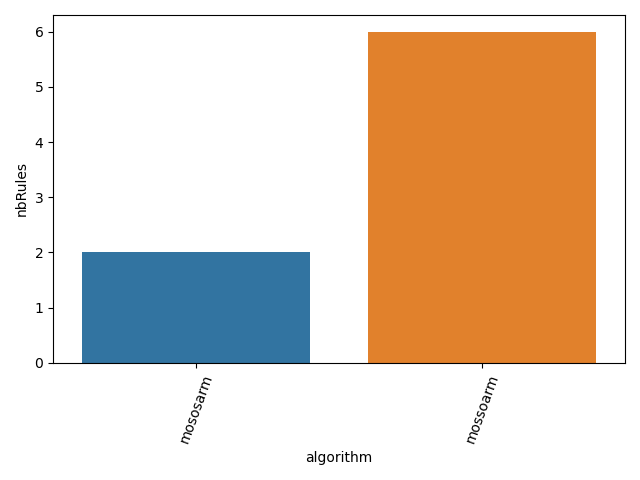
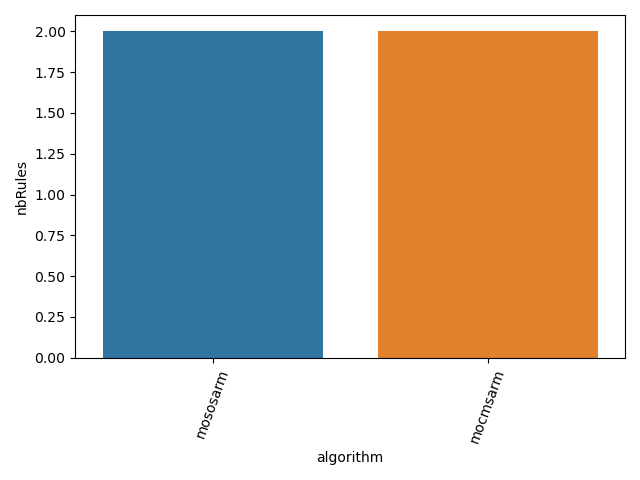
add MOCMSARM

diff --git a/src/Algorithm/MOCMSARM.py b/src/Algorithm/MOCMSARM.py
@@ -1,0 +1,103 @@
+from src.Utils.Fitness import *
+from src.Utils.Population import *
+import matplotlib.pyplot as plt
+import pandas as pd
+from scipy.spatial import distance
+from src.Utils.Graphs import *
+from time import time
+from src.Utils.HyperParameters import *
+
+class MOCMSARM:
+    def __init__(self,nbItem,populationSize,nbIteration,nbObjectifs,objectiveNames,data,
+                 hyperParameters = HyperParameters(['ruthlessRatio']),visualScope=10,step=3):
+        self.population = Population('horizontal_binary', populationSize, nbItem)
+        self.nbItem = nbItem
+        self.nbIteration = nbIteration
+        self.nbObjectifs = nbObjectifs
+        self.fitness = Fitness('horizontal_binary', objectiveNames, populationSize )
+        self.force = np.zeros((populationSize,nbItem*2),dtype=float)
+        self.velocity = np.zeros((populationSize, nbItem * 2), dtype=float)
+        self.bestInd = copy.deepcopy(self.population.population[rd.randint(0,populationSize-1)])
+        self.bestIndScore = np.zeros(nbObjectifs,dtype=float)
+        self.worstInd = copy.deepcopy(self.population.population[rd.randint(0, populationSize - 1)])
+        self.worstIndScore = np.zeros(nbObjectifs, dtype=float)
+
+        self.ruthlessRatio = hyperParameters.hyperParameters['ruthlessRatio']
+
+        self.distance = np.zeros((populationSize,populationSize),dtype=float)
+        self.executionTime = 0
+        self.fitness.ComputeScorePopulation(self.population.population, data)
+
+
+    def UpdateBestWorst(self):
+        indexs = np.arange(self.population.populationSize)
+        paretoFront = np.ones(self.population.populationSize)
+        for i in range(self.population.populationSize):
+            for j in range(self.population.populationSize):
+                domination = self.fitness.Domination(self.fitness.scores[i], self.fitness.scores[j])
+                if domination == 1:
+                    paretoFront[i] += 1
+                    break
+        candidate = indexs[paretoFront == 1]
+        index = rd.choice(candidate)
+        worstIndex = np.argmax(paretoFront)
+        self.bestInd = copy.deepcopy(self.population.population[index])
+        self.bestIndScore = copy.deepcopy(self.fitness.scores[index])
+        self.worstInd =  copy.deepcopy(self.population.population[worstIndex])
+        self.worstIndScore = copy.deepcopy(self.fitness.scores[worstIndex])
+
+
+    def CalculDistance(self):
+        for i in range(self.population.populationSize):
+            for j in range(self.population.populationSize):
+                dstij = distance.euclidean(self.population.population[i], self.population.population[j])
+                distMB = distance.euclidean((self.population.population[i]+self.population.population[j])/2, self.bestInd)
+                self.distance[i][j] = dstij/(distMB+0.000000000000000000000001)
+
+    def CalculForce(self):
+        a=0.1*self.nbItem*2
+        for i in range(self.population.populationSize):
+            somme = np.zeros(self.nbItem*2,dtype=float)
+            for j in range(self.population.populationSize):
+                domination = self.fitness.Domination(self.fitness.scores[i],self.fitness.scores[j])
+                if domination == 1:
+                    pij = 1
+                else:
+                    pij = 0
+                if self.distance[i][j]<a:
+                    i1=1
+                    i2=0
+                else:
+                    i1=0
+                    i2=1
+                if i != j:
+                    somme = somme + (((sum(self.fitness.scores[j])*self.distance[i][j]*i1)/pow(a,3))+(sum(self.fitness.scores[j])*i2)/pow(self.distance[i][j],2))*pij*(self.population.population[j]-self.population.population[i])
+            somme = sum(self.fitness.scores[i])*somme
+            self.force[i] = somme
+
+    def UpdatePosition(self,i,data):
+        kv = 0.5*(1-i/self.nbIteration)
+        ka = 0.5*(1+i/self.nbIteration)
+        for i in range(self.population.populationSize):
+            individual = rd.random()*ka*(self.force[i]/sum(self.fitness.scores[i]))+rd.random()*kv*self.velocity[i]+self.population.population[i]
+            vNew = individual - self.population.population[i]
+            score = self.fitness.ComputeScoreIndividual(individual,data)
+            if self.fitness.Domination(self.worstIndScore,score) == 1:
+                self.population.population[i] = copy.deepcopy(individual)
+                self.velocity[i] = copy.deepcopy(vNew)
+                self.UpdateBestWorst()
+
+    def Run(self,data,i):
+
+        t1 = time()
+        self.UpdateBestWorst()
+        self.CalculDistance()
+        self.CalculForce()
+        self.UpdatePosition(i,data)
+        self.population.CheckIfNull()
+        self.fitness.ComputeScorePopulation(self.population.population, data)
+
+        self.executionTime = time() - t1
+
+
+

diff --git a/src/Utils/Experiments.py b/src/Utils/Experiments.py
@@ -18,6 +18,7 @@ from src.Algorithm.MOGSAARM import *
 from src.Algorithm.MOSSOARM import *
 from src.Algorithm.MOWOAARM import *
 from src.Algorithm.MOSOSARM import *
+from src.Algorithm.MOCMSARM import *
 from os import path,mkdir
 
 
@@ -119,6 +120,10 @@ class Experiment:
             if name == 'mososarm':
                 self.algList.append(
                     MOSOSARM(self.data.shape[1], self.populationSize, self.nbIteration, len(self.objectiveNames),
+                             self.objectiveNames, self.data))
+            if name == 'mocmsarm':
+                self.algList.append(
+                    MOCMSARM(self.data.shape[1], self.populationSize, self.nbIteration, len(self.objectiveNames),
                              self.objectiveNames, self.data))
 
 

diff --git a/main.py b/main.py
@@ -22,7 +22,7 @@ nbRepetition = 5
 populationSize = 200
 objectiveNames = ['support','confidence','jaccard']
 criterionList = ['scores','execution time']
-algorithmNameList = ['mososarm','mossoarm']
+algorithmNameList = ['mososarm','mocmsarm']
 #algorithmNameList = ['mocsoarm','mopso','nsgaii','hmofaarm','mowsaarm','mocatsoarm','motlboarm',
 #                     'mofpaarm','moaloarm','modaarm','mohsbotsarm','modearm','nshsdearm','mogeaarm','mogsaarm','mossoarm']
 
